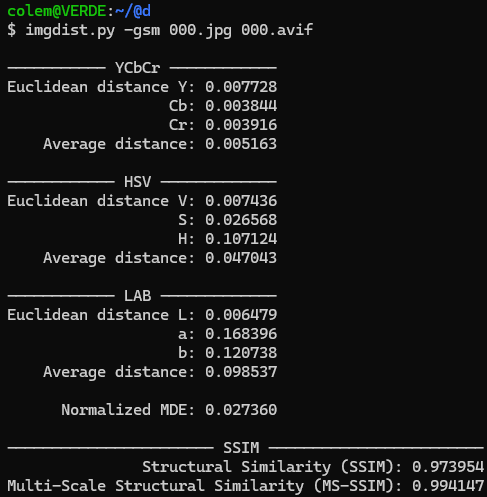
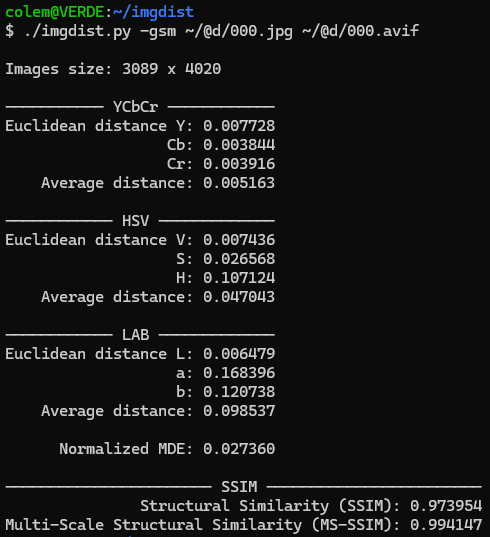
Also print images size

Changed region(s): [[0.0, 0.0, 0.8624, 0.7847], [0.0, 0.8753, 1.0, 0.996], [0.1232, 0.8149, 0.5852, 0.8451]]

diff --git a/imgdist.py b/imgdist.py
@@ -15,10 +15,12 @@ def compute_diffs(picture1_path, picture2_path, compute_ssim=False, compute_ms_s
         if picture1.size != picture2.size:
             return "Error: pictures must have the same width and height."
 
-        pixel_count = np.prod(picture1.size)
+        width, height = picture1.size
+        pixel_count = width * height
 
         # The dictionary is initialized empty and populated gradually
         results = {}
+        results["size"] = f"{width} x {height}"
 
         # --- CALCULATION OF NORMALIZED EUCLIDEAN NORM FOR YCbCr ---
 
@@ -137,6 +139,8 @@ if __name__ == "__main__":
 
     # Check if the result is a dictionary (success)
     if isinstance(results, dict):
+        print(f"\nImages size: {results['size']}")
+
         # Print YcbCr Euclidean norm results
         norms = results["ycbcr"]
         print( "\n----------- YCbCr ------------")
